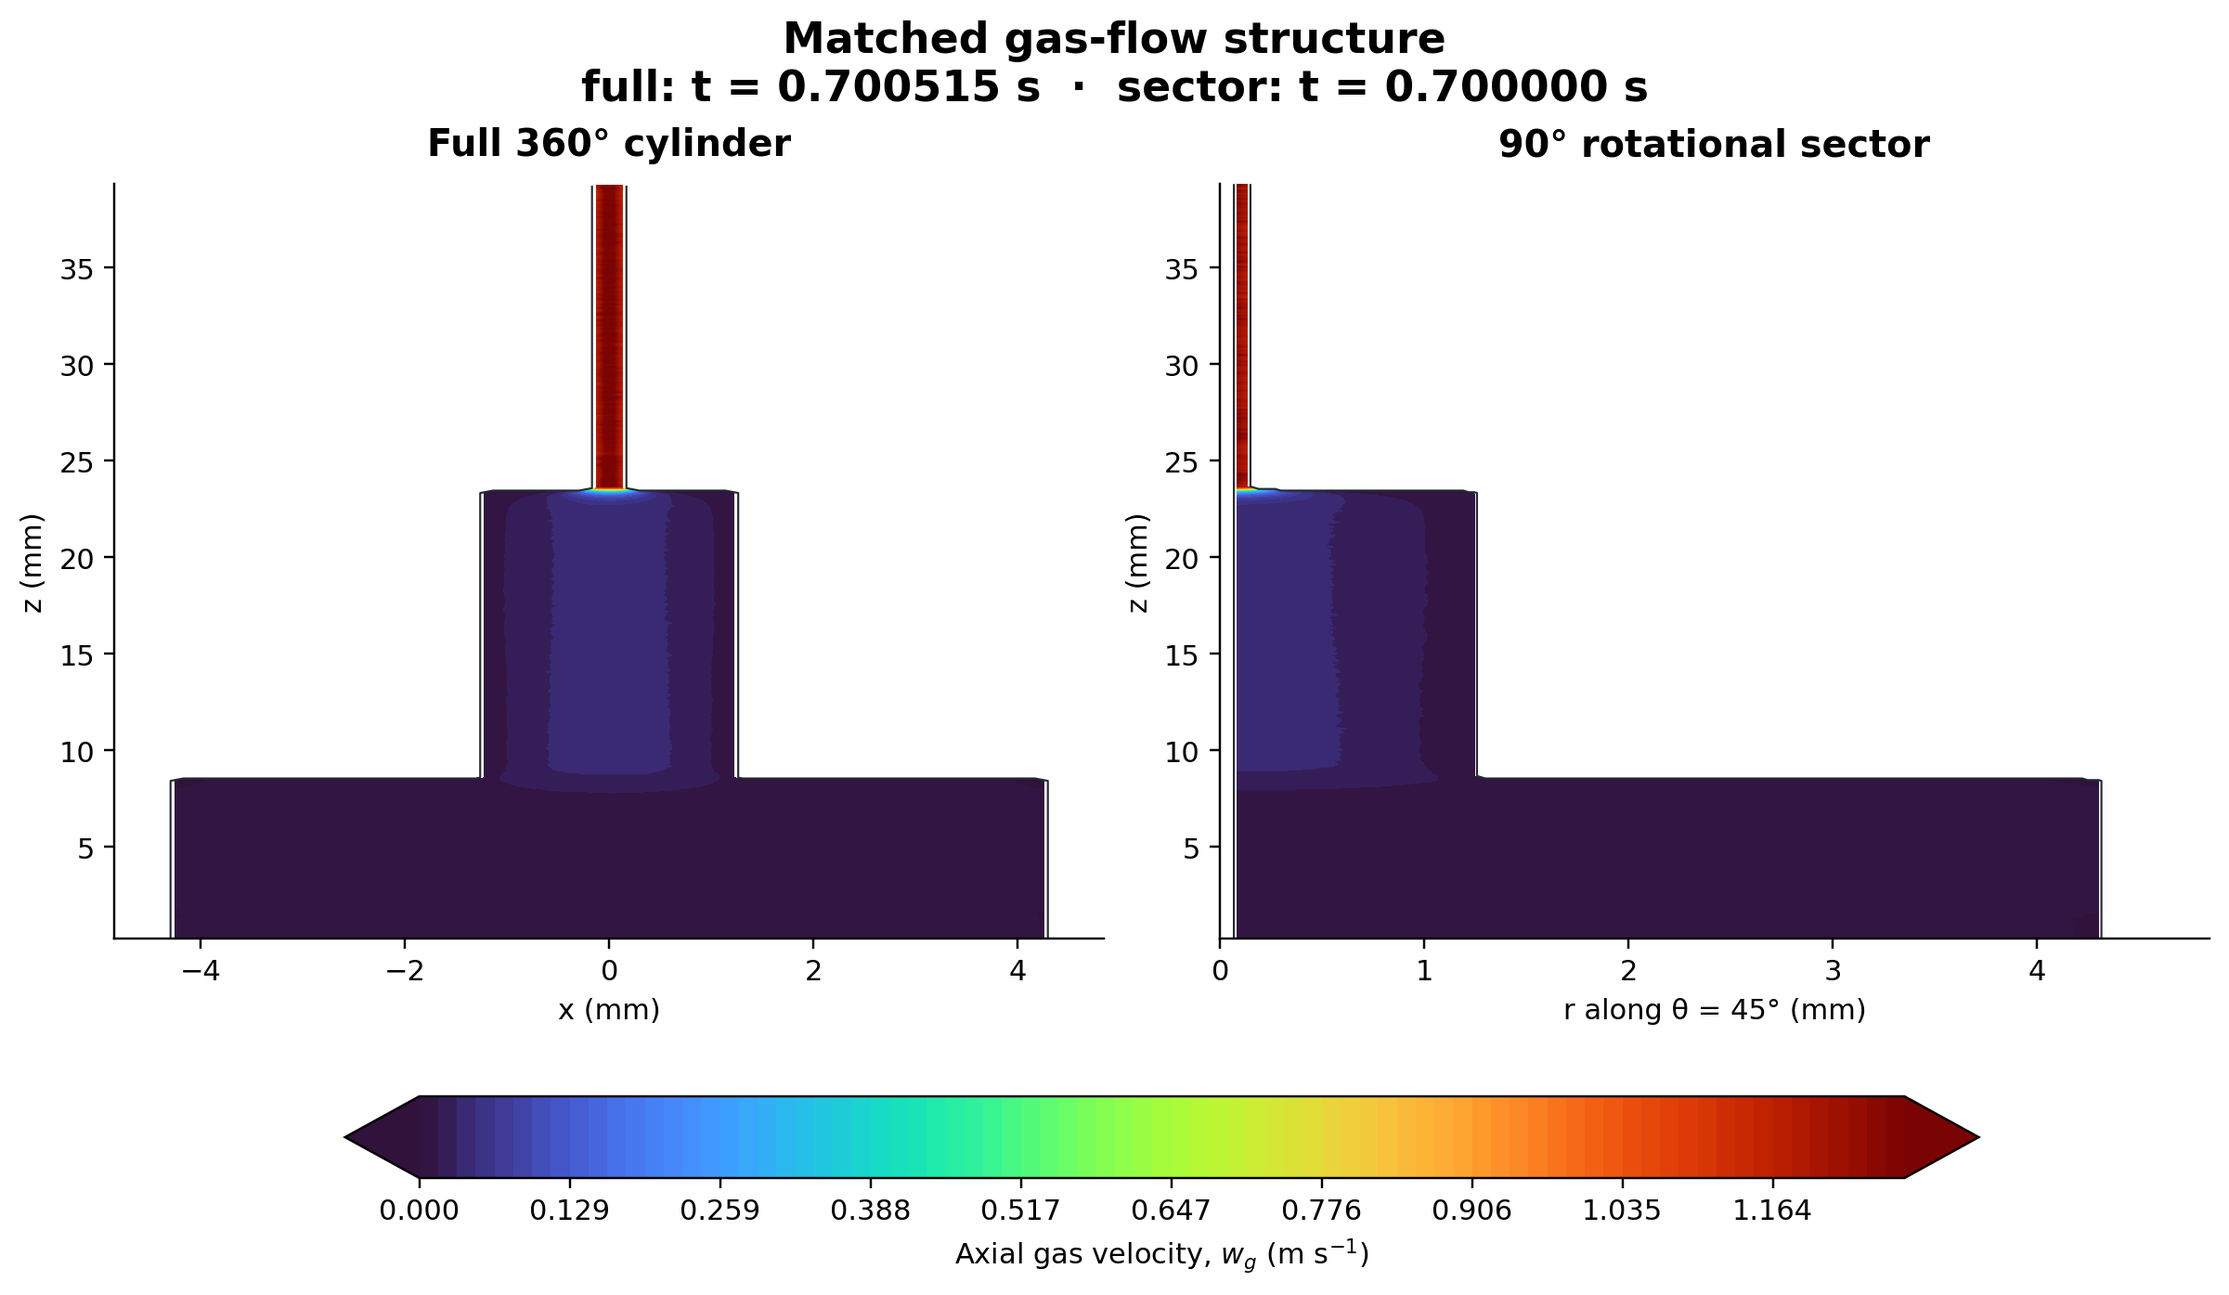
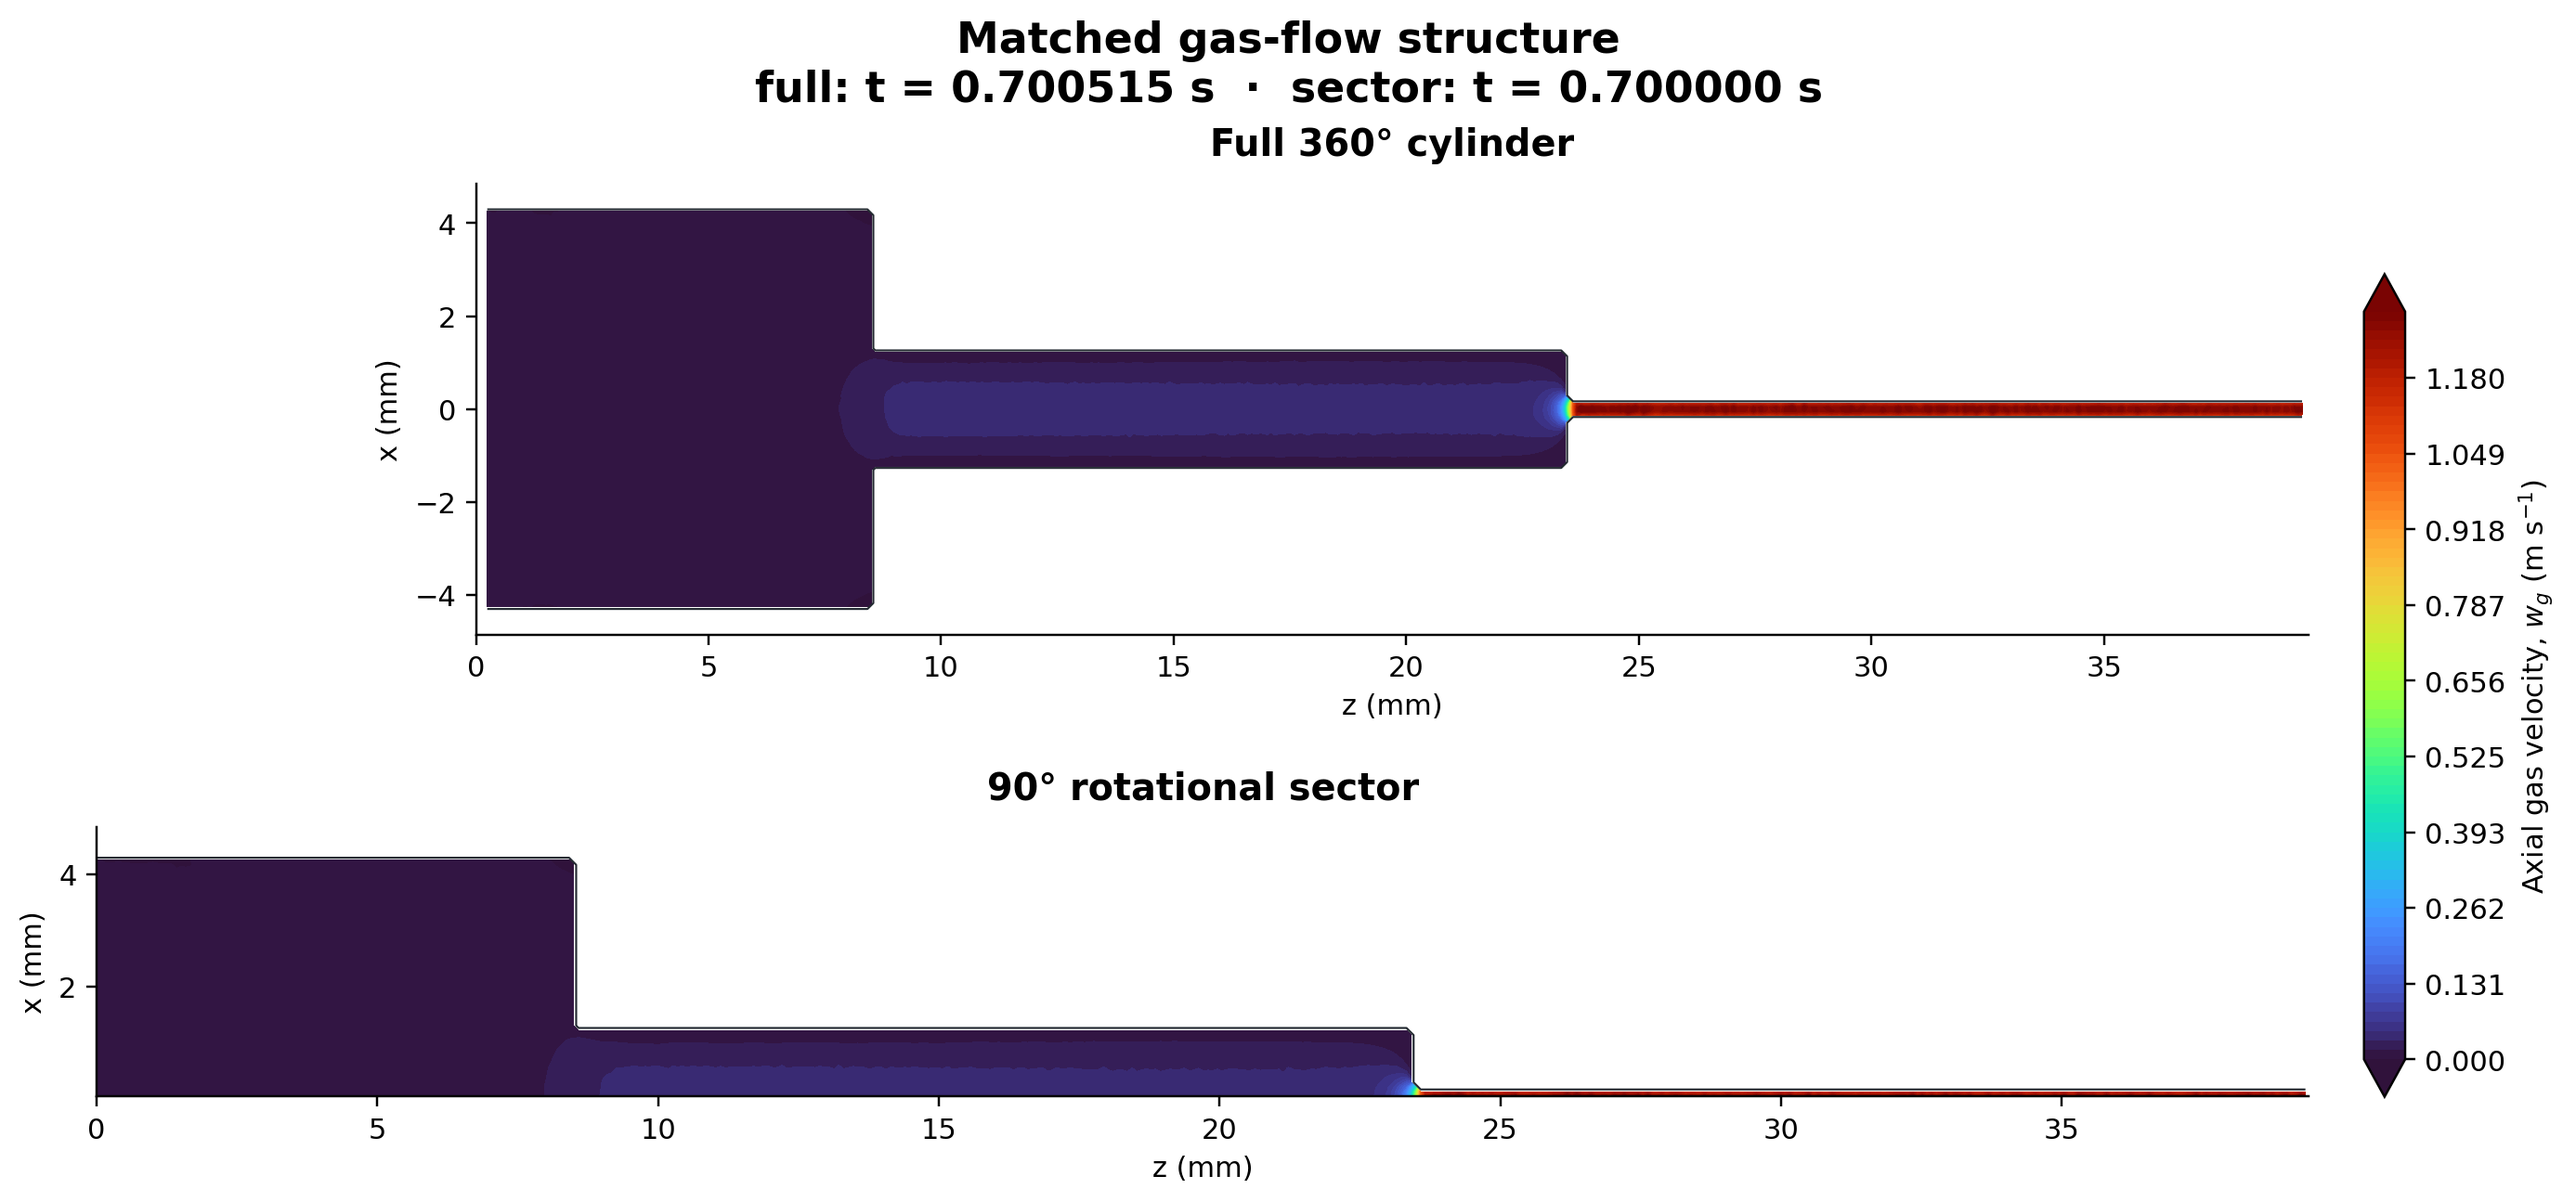
Rotate matched snapshots to physical axis scale

diff --git a/scripts/render_snapshot_comparison.py b/scripts/render_snapshot_comparison.py
@@ -10,7 +10,6 @@ import matplotlib as mpl
 import matplotlib.pyplot as plt
 import numpy as np
 import vtk
-from scipy.interpolate import RegularGridInterpolator
 from vtk.util.numpy_support import vtk_to_numpy
 
 
@@ -93,23 +92,6 @@ def read_particles(plotfile: Path) -> tuple[np.ndarray, np.ndarray]:
     return np.concatenate(points), np.concatenate(velocity)
 
 
-def sector_diagonal(fields: dict[str, np.ndarray]) -> tuple[np.ndarray, ...]:
-    radius = np.linspace(0.0, min(fields["x"][-1], fields["y"][-1]), 180)
-    rr, zz = np.meshgrid(radius, fields["z"])
-    xy = rr / np.sqrt(2.0)
-    samples = np.column_stack((zz.ravel(), xy.ravel(), xy.ravel()))
-    result = []
-    for name in ("w_g", "volfrac"):
-        interpolator = RegularGridInterpolator(
-            (fields["z"], fields["y"], fields["x"]),
-            fields[name],
-            bounds_error=False,
-            fill_value=np.nan,
-        )
-        result.append(interpolator(samples).reshape(rr.shape))
-    return radius, fields["z"], *result
-
-
 def fluid_mask(values: np.ndarray, volume_fraction: np.ndarray) -> np.ma.MaskedArray:
     return np.ma.masked_where((volume_fraction < 0.5) | ~np.isfinite(values), values)
 
@@ -128,21 +110,29 @@ def plot_flow(
 ) -> None:
     center_y = int(np.argmin(np.abs(full["y"])))
     full_w = fluid_mask(full["w_g"][:, center_y, :], full["volfrac"][:, center_y, :])
-    radius, sector_z, sector_w_raw, sector_vf = sector_diagonal(sector)
-    sector_w = fluid_mask(sector_w_raw, sector_vf)
+    sector_y = int(np.argmin(np.abs(sector["y"])))
+    sector_w = fluid_mask(
+        sector["w_g"][:, sector_y, :], sector["volfrac"][:, sector_y, :]
+    )
 
     combined = np.concatenate((full_w.compressed(), sector_w.compressed()))
     lower, upper = np.nanpercentile(combined, (1.0, 99.5))
     lower = min(lower, 0.0)
     levels = np.linspace(lower, upper, 80)
 
-    fig, axes = plt.subplots(1, 2, figsize=(10.8, 6.2), constrained_layout=True)
+    fig, axes = plt.subplots(2, 1, figsize=(12.5, 5.8), constrained_layout=True)
     panels = (
-        (axes[0], full["x"] * MM, full["z"] * MM, full_w, "Full 360° cylinder", "x (mm)"),
-        (axes[1], radius * MM, sector_z * MM, sector_w, "90° rotational sector", "r along θ = 45° (mm)"),
+        (axes[0], full["z"] * MM, full["x"] * MM, full_w.T, "Full 360° cylinder"),
+        (
+            axes[1],
+            sector["z"] * MM,
+            sector["x"] * MM,
+            sector_w.T,
+            "90° rotational sector",
+        ),
     )
     contour = None
-    for axis, horizontal, vertical, field, title, xlabel in panels:
+    for axis, horizontal, vertical, field, title in panels:
         contour = axis.contourf(
             horizontal,
             vertical,
@@ -160,11 +150,12 @@ def plot_flow(
             linewidths=0.7,
         )
         axis.set_title(title, fontsize=13, weight="semibold", pad=10)
-        axis.set_xlabel(xlabel)
-        axis.set_ylabel("z (mm)")
-        axis.set_ylim(max(full["z"][0], sector["z"][0]) * MM, 39.35)
+        axis.set_xlabel("z (mm)")
+        axis.set_ylabel("x (mm)")
+        axis.set_xlim(0.0, 39.4)
+        axis.set_aspect("equal", adjustable="box")
         style_axis(axis)
-    colorbar = fig.colorbar(contour, ax=axes, location="bottom", shrink=0.78, pad=0.08)
+    colorbar = fig.colorbar(contour, ax=axes, location="right", shrink=0.82, pad=0.025)
     colorbar.set_label("Axial gas velocity, $w_g$ (m s$^{-1}$)")
     fig.suptitle(
         "Matched gas-flow structure\n"
@@ -197,49 +188,15 @@ def geometry_profile(fields: dict[str, np.ndarray]) -> tuple[np.ndarray, np.ndar
     return fields["z"][valid] * MM, radii[valid] * MM
 
 
-def draw_geometry(
-    axis: plt.Axes,
-    profile_z: np.ndarray,
-    profile_r: np.ndarray,
-    sector: bool,
+def draw_side_geometry(
+    axis: plt.Axes, profile_z: np.ndarray, profile_r: np.ndarray, sector: bool
 ) -> None:
-    if sector:
-        theta = np.linspace(0.0, np.pi / 2.0, 100)
-        angles = (0.0, np.pi / 2.0)
-    else:
-        theta = np.linspace(0.0, 2.0 * np.pi, 160)
-        angles = (0.0, np.pi / 2.0, np.pi, 3.0 * np.pi / 2.0)
     line = dict(color="#263746", linewidth=0.8, alpha=0.78)
-    transition = np.flatnonzero(np.abs(np.diff(profile_r)) > 0.15)
-    ring_indices = np.unique(np.concatenate(([0], transition, transition + 1, [-1])))
-    for index in ring_indices:
-        radius = profile_r[index]
-        z_value = profile_z[index]
-        axis.plot(radius * np.cos(theta), radius * np.sin(theta), z_value, **line)
-    for angle in angles:
-        axis.plot(
-            profile_r * np.cos(angle),
-            profile_r * np.sin(angle),
-            profile_z,
-            **line,
-        )
+    axis.plot(profile_z, profile_r, **line)
     if sector:
-        for index in ring_indices:
-            radius = profile_r[index]
-            z_value = profile_z[index]
-            for angle in (0.0, np.pi / 2.0):
-                axis.plot(
-                    [0.0, radius * np.cos(angle)],
-                    [0.0, radius * np.sin(angle)],
-                    [z_value, z_value],
-                    **line,
-                )
-        axis.plot(
-            np.zeros_like(profile_z),
-            np.zeros_like(profile_z),
-            profile_z,
-            **line,
-        )
+        axis.plot([profile_z[0], profile_z[-1]], [0.0, 0.0], **line)
+    else:
+        axis.plot(profile_z, -profile_r, **line)
 
 
 def plot_particles(
@@ -261,11 +218,7 @@ def plot_particles(
     v_min, v_max = np.nanpercentile(all_velocity, (1.0, 99.0))
     norm = mpl.colors.Normalize(vmin=v_min, vmax=v_max)
 
-    fig = plt.figure(figsize=(11.2, 6.6), constrained_layout=True)
-    axes = [
-        fig.add_subplot(1, 2, 1, projection="3d"),
-        fig.add_subplot(1, 2, 2, projection="3d"),
-    ]
+    fig, axes = plt.subplots(2, 1, figsize=(12.5, 5.8), constrained_layout=True)
     panels = (
         (
             axes[0],
@@ -285,9 +238,8 @@ def plot_particles(
     scatter = None
     for axis, points, velocity, title, is_sector in panels:
         scatter = axis.scatter(
-            points[:, 0] * MM,
-            points[:, 1] * MM,
             points[:, 2] * MM,
+            points[:, 0] * MM,
             c=velocity,
             cmap="viridis",
             norm=norm,
@@ -296,29 +248,18 @@ def plot_particles(
             linewidths=0,
             rasterized=True,
         )
-        draw_geometry(axis, profile_z, profile_r, is_sector)
+        draw_side_geometry(axis, profile_z, profile_r, is_sector)
         axis.set_title(title, fontsize=13, weight="semibold", pad=10)
-        axis.set_xlabel("x (mm)", labelpad=2)
-        axis.set_ylabel("y (mm)", labelpad=2)
-        axis.set_zlabel("z (mm)", labelpad=4)
-        axis.set_zlim(0.0, 40.0)
+        axis.set_xlabel("z (mm)")
+        axis.set_ylabel("x (mm)")
+        axis.set_xlim(0.0, 39.4)
         if is_sector:
-            axis.set_xlim(0.0, 4.6)
             axis.set_ylim(0.0, 4.6)
-            axis.set_box_aspect((1, 1, 3.0))
         else:
-            axis.set_xlim(-4.6, 4.6)
             axis.set_ylim(-4.6, 4.6)
-            axis.set_box_aspect((2, 2, 3.0))
-        axis.view_init(elev=20, azim=-58)
-        axis.xaxis.set_major_locator(mpl.ticker.MaxNLocator(5))
-        axis.yaxis.set_major_locator(mpl.ticker.MaxNLocator(5))
-        axis.zaxis.set_major_locator(mpl.ticker.MaxNLocator(6))
-        axis.grid(False)
-        axis.xaxis.pane.set_alpha(0.0)
-        axis.yaxis.pane.set_alpha(0.0)
-        axis.zaxis.pane.set_alpha(0.0)
-    colorbar = fig.colorbar(scatter, ax=axes, location="bottom", shrink=0.75, pad=0.09)
+        axis.set_aspect("equal", adjustable="box")
+        style_axis(axis)
+    colorbar = fig.colorbar(scatter, ax=axes, location="right", shrink=0.82, pad=0.025)
     colorbar.set_label("Particle axial velocity, $v_{p,z}$ (m s$^{-1}$)")
     fig.suptitle(
         "Particle distribution inside the simulated geometry\n"

diff --git a/README.md b/README.md
@@ -52,14 +52,16 @@ sustained coupled multi-rank pressure evolution is not qualified.
 
 These matched snapshots compare the monodisperse 20 µm-radius cases at nearly
 the same simulated time: `0.700515 s` for the full cylinder and `0.700000 s`
-for the 90° sector. Both flow panels use one shared color scale. The full
-cylinder is sampled through its centerline; the sector is sampled on its
-mid-angle radial plane.
+for the 90° sector. Both flow panels use one shared color scale and a common
+physical axis scale. They are longitudinal views near the `y = 0` plane, with
+`z` horizontal and `x` vertical.
 
 ![Matched full-cylinder and C90 axial gas-flow fields](figures/validation/matched_gas_flow.png)
 
 The particle view uses the geometry extracted from the fluid volume-fraction
-field and colors particles by axial velocity on a shared scale. At this
+field and colors particles by axial velocity on a shared scale. The side
+projections use the same horizontal-`z`, vertical-`x` convention and equal
+physical axis scaling. At this
 instant, the full cylinder contains 432,544 particles; the sector contains
 107,562, equivalent to 430,248 particles after fourfold replication. A
 deterministic display subset is used only to keep the raster figure legible.

diff --git a/scripts/README.md b/scripts/README.md
@@ -16,7 +16,7 @@ links, and the absence of common private-workspace identifiers.
 
 `render_snapshot_comparison.py` reads matched AMReX field and particle
 plotfiles and produces the two snapshot figures shown in the main README. It
-requires NumPy, SciPy, Matplotlib, and a VTK build that includes the AMReX
+requires NumPy, Matplotlib, and a VTK build that includes the AMReX
 grid and particle readers. Raw simulation plotfiles are intentionally outside
 this repository.
 
